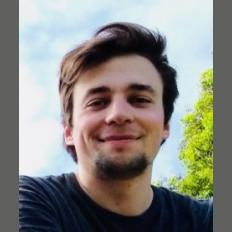
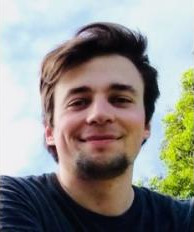
img updated

diff --git a/people/tobias-felkl/index.html b/people/tobias-felkl/index.html
@@ -351,7 +351,7 @@
 
 
 <div class="article-header d-xl-none">
-  <div class="featured-image" style="background-image: url('/people/tobias-felkl/featured_hucb03d78f3e8ebf24c25fdf5ef5bc32db_8424_800x0_resize_q75_box.jpg');"></div>
+  <div class="featured-image" style="background-image: url('/people/tobias-felkl/featured_hu6ca7b9303d2d5f464a323a018ccf2193_23444_800x0_resize_q75_box.jpg');"></div>
   
 </div>
 
@@ -495,7 +495,7 @@
     </div>
     <div class="col-6">
       <div class="split-header-image">
-        <img src="/people/tobias-felkl/featured_hucb03d78f3e8ebf24c25fdf5ef5bc32db_8424_680x500_fill_q90_box_smart1.jpg" itemprop="image" alt="">
+        <img src="/people/tobias-felkl/featured_hu6ca7b9303d2d5f464a323a018ccf2193_23444_680x500_fill_q90_box_smart1.jpg" itemprop="image" alt="">
         
       </div>
     </div>
@@ -750,9 +750,9 @@
       <h3>Related</h3>
       <ul>
         
-        <li><a href="/people/adam-lackner/">Adam Lackner</a></li>
-        
         <li><a href="/people/bahman-ghadirian/">Dr Bahman Ghadirian</a></li>
+        
+        <li><a href="/people/adam-lackner/">Adam Lackner</a></li>
         
       </ul>
     </div>

diff --git a/projects/neutrinos/index.html b/projects/neutrinos/index.html
@@ -697,7 +697,7 @@
         
         <li><a href="/talk/201707-zhengzhou/">Reconsidering the one leptoquark solution: Flavor anomalies and neutrino mass</a></li>
         
-        <li><a href="/publication/1704.05849/">Reconsidering the One Leptoquark solution: flavor anomalies and neutrino mass</a></li>
+        <li><a href="/publication/1706.08524/">From the trees to the forest: a review of radiative neutrino mass models</a></li>
         
       </ul>
     </div>

diff --git a/index.html b/index.html
@@ -1524,7 +1524,7 @@
       
       
       <a href="https://www.physics.unsw.edu.au/staff/tobias-felkl" target="_blank" rel="noopener">
-        <img src="/people/tobias-felkl/featured_hucb03d78f3e8ebf24c25fdf5ef5bc32db_8424_540x0_resize_q75_box.jpg" itemprop="image" alt="">
+        <img src="/people/tobias-felkl/featured_hu6ca7b9303d2d5f464a323a018ccf2193_23444_540x0_resize_q75_box.jpg" itemprop="image" alt="">
       </a>
       
     </div>

diff --git a/people/adam-lackner/index.html b/people/adam-lackner/index.html
@@ -571,11 +571,11 @@
       <h3>Related</h3>
       <ul>
         
-        <li><a href="/people/rupert-coy/">Rupert Coy</a></li>
+        <li><a href="/people/ruihao-li/">Ruihao Li</a></li>
         
         <li><a href="/people/tobias-felkl/">Tobias Felkl</a></li>
         
-        <li><a href="/people/ruihao-li/">Ruihao Li</a></li>
+        <li><a href="/people/rupert-coy/">Rupert Coy</a></li>
         
       </ul>
     </div>

diff --git a/people/rupert-coy/index.html b/people/rupert-coy/index.html
@@ -574,9 +574,9 @@
         
         <li><a href="/people/ruihao-li/">Ruihao Li</a></li>
         
-        <li><a href="/people/adam-lackner/">Adam Lackner</a></li>
-        
         <li><a href="/people/bahman-ghadirian/">Dr Bahman Ghadirian</a></li>
+        
+        <li><a href="/people/adam-lackner/">Adam Lackner</a></li>
         
       </ul>
     </div>
